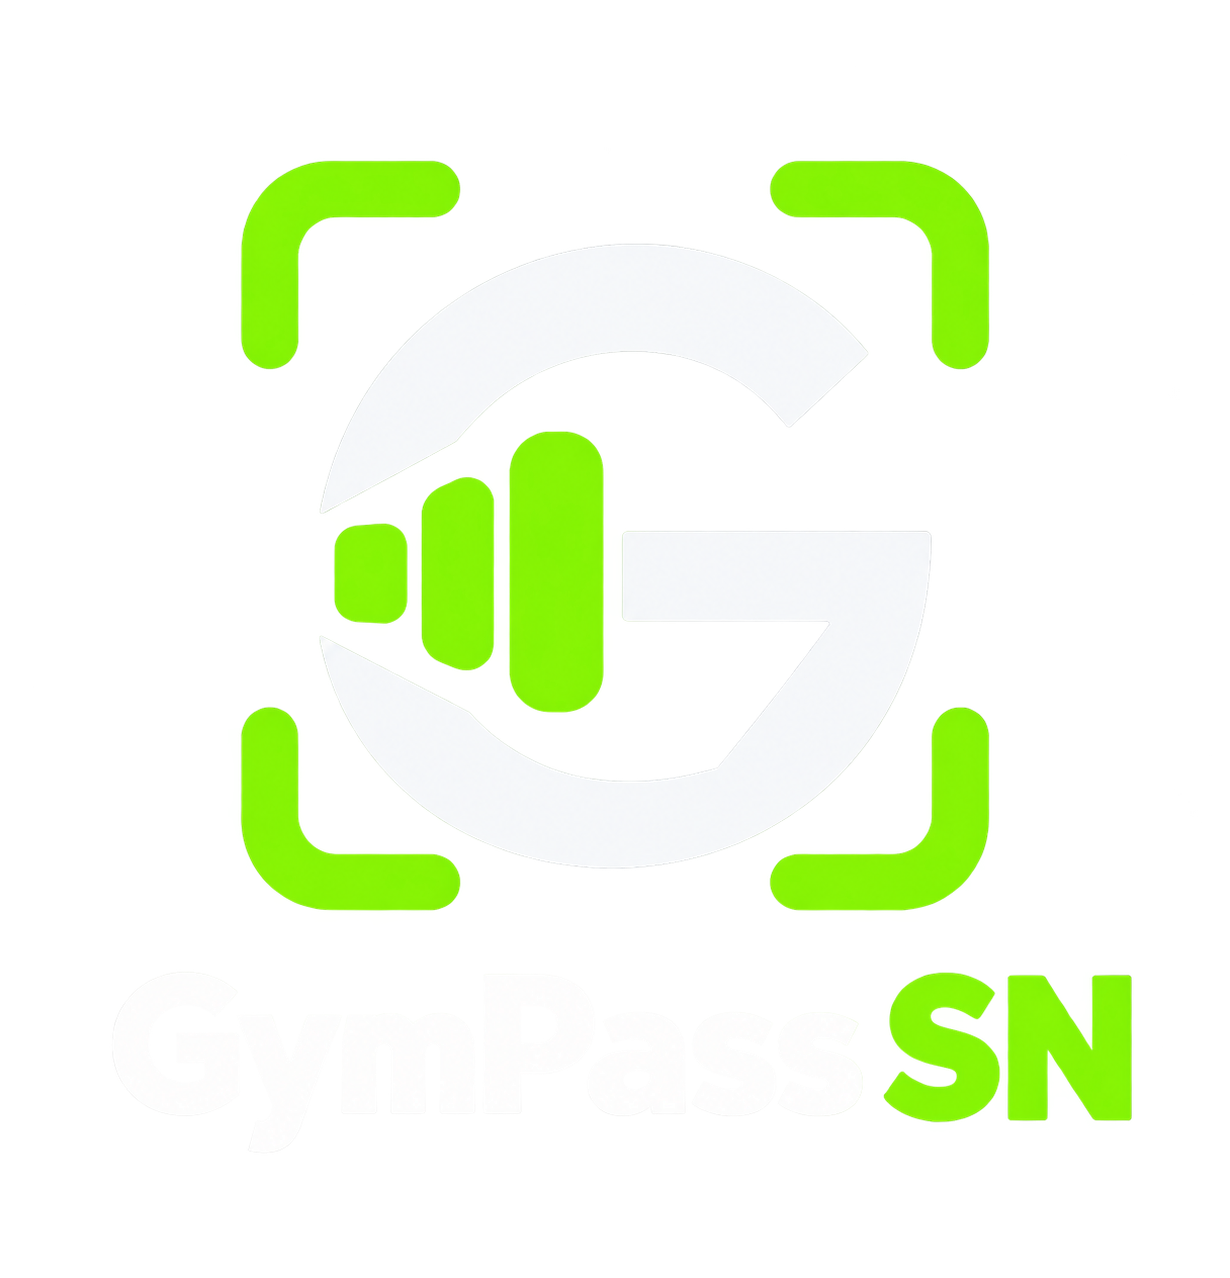
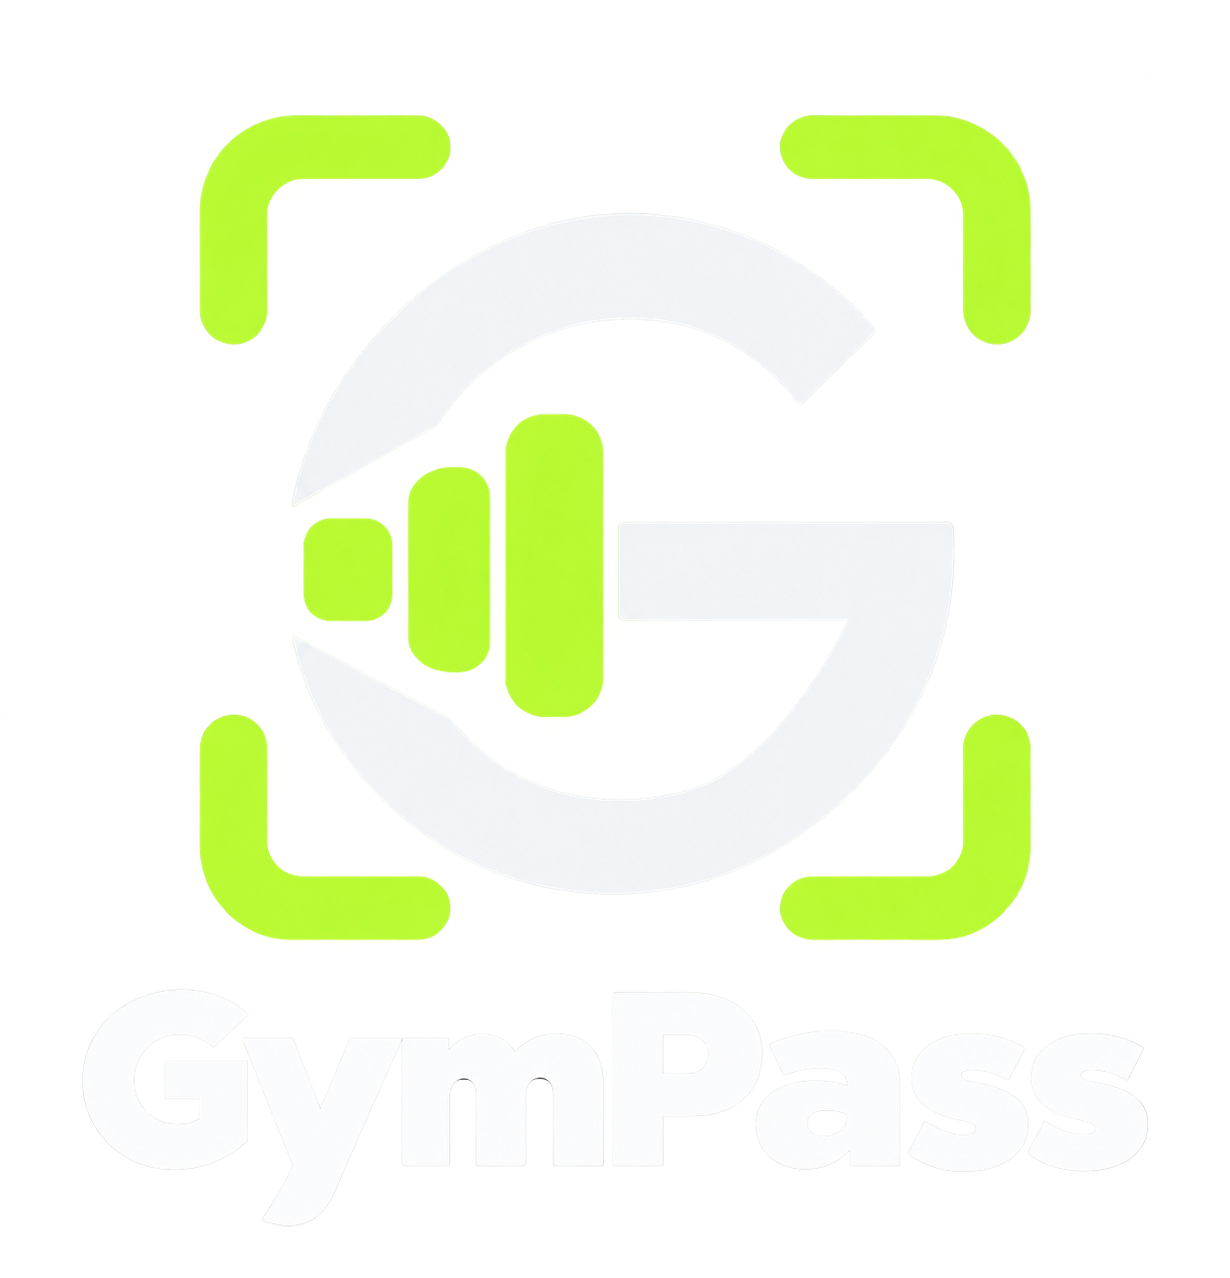
fix(branding): use GymPass on messages and receipts

diff --git a/src/scheduler/scheduler.service.ts b/src/scheduler/scheduler.service.ts
@@ -54,7 +54,7 @@ export class SchedulerService {
         `Bonjour *${m.prenom} ${m.nom}* 👋\n\n` +
         `Votre abonnement *GymPass* expire *demain*.\n\n` +
         `Pour continuer à profiter de la salle, pensez à renouveler dès aujourd'hui.\n\n` +
-        `_GymPass SN_`;
+        `_GymPass_`;
 
       await this.whatsapp.sendMessage(m.telephone, message);
 
@@ -109,7 +109,7 @@ export class SchedulerService {
         `Votre abonnement *GymPass* a expiré hier.\n\n` +
         `🔴 Votre accès à la salle est suspendu jusqu'au renouvellement.\n\n` +
         `Contactez la réception pour renouveler votre abonnement.\n\n` +
-        `_GymPass SN_`;
+        `_GymPass_`;
 
       await this.whatsapp.sendMessage(m.telephone, message);
 
@@ -128,10 +128,10 @@ export class SchedulerService {
   async sendWelcome(telephone: string, prenom: string, nom: string, numeroCarte: string) {
     const message =
       `Bienvenue *${prenom} ${nom}* ! 🎉\n\n` +
-      `Votre inscription à *GymPass SN* est confirmée.\n\n` +
+      `Votre inscription à *GymPass* est confirmée.\n\n` +
       `🪪 N° carte : *${numeroCarte}*\n\n` +
       `Présentez votre QR code à chaque entrée en salle.\n\n` +
-      `_GymPass SN_`;
+      `_GymPass_`;
     await this.whatsapp.sendMessage(telephone, message);
   }
 
@@ -152,7 +152,7 @@ export class SchedulerService {
       `Bonjour *${prenom} ${nom}*,\n\n` +
       `✅ Paiement enregistré : *${montant.toLocaleString('fr-FR')} FCFA* — ${formule}${expStr}\n\n` +
       `Merci de votre confiance !\n\n` +
-      `_GymPass SN_`;
+      `_GymPass_`;
     await this.whatsapp.sendMessage(telephone, message);
   }
 }

diff --git a/src/whatsapp/whatsapp.service.ts b/src/whatsapp/whatsapp.service.ts
@@ -127,11 +127,11 @@ export class WhatsappService {
   async sendCredentials(telephone: string, email: string, password: string, prenom: string): Promise<WhatsappDelivery> {
     const message =
       `Bonjour ${prenom} ! 👋\n\n` +
-      `Votre compte GymPass SN a été créé.\n\n` +
+      `Votre compte GymPass a été créé.\n\n` +
       `📧 Email : ${email}\n` +
       `🔑 Mot de passe temporaire : ${password}\n\n` +
       `Connectez-vous et changez votre mot de passe dès votre première connexion.\n\n` +
-      `GymPass SN`;
+      `GymPass`;
     return this.send(telephone, message);
   }
 
@@ -139,10 +139,10 @@ export class WhatsappService {
   async sendOtp(telephone: string, otp: string, prenom: string): Promise<WhatsappDelivery> {
     const message =
       `Bonjour ${prenom},\n\n` +
-      `Votre code de réinitialisation GymPass SN :\n\n` +
+      `Votre code de réinitialisation GymPass :\n\n` +
       `🔐 *${otp}*\n\n` +
       `Ce code expire dans 10 minutes. Ne le partagez pas.\n\n` +
-      `GymPass SN`;
+      `GymPass`;
     return this.send(telephone, message);
   }
 
@@ -151,7 +151,7 @@ export class WhatsappService {
     const message =
       `Voici la carte QR de *${memberNom}* :\n` +
       `${qrImageUrl}\n\n` +
-      `GymPass SN`;
+      `GymPass`;
     await this.send(telephone, message);
   }
 

diff --git a/src/members/member-card-delivery.service.ts b/src/members/member-card-delivery.service.ts
@@ -61,7 +61,7 @@ export class MemberCardDeliveryService {
     let delivery: WhatsappDelivery;
     try {
       delivery = await this.whatsapp.sendImage(member.telephone, image,
-        `Bonjour ${member.prenom} ${member.nom}, voici votre carte GymPass SN (${member.numeroCarte}). Conservez-la et présentez son QR code à l’accueil de votre salle. Vous pouvez également l’imprimer au format badge.`);
+        `Bonjour ${member.prenom} ${member.nom}, voici votre carte GymPass (${member.numeroCarte}). Conservez-la et présentez son QR code à l’accueil de votre salle. Vous pouvez également l’imprimer au format badge.`);
     } catch { delivery = { status: 'unconfirmed' }; }
     await this.prisma.member.updateMany({ where: { id, gymId, numeroCarte: member.numeroCarte, cardWhatsappStatus: 'pending', cardWhatsappAttemptedAt: attemptedAt }, data: { cardWhatsappStatus: delivery.status, cardWhatsappMessageId: delivery.messageId || null } });
     return this.result(delivery.status, delivery.messageId);

diff --git a/src/payments/payment-receipt.pdf.ts b/src/payments/payment-receipt.pdf.ts
@@ -67,7 +67,7 @@ export async function renderPaymentReceipt(r: PaymentReceiptData, photo?: Buffer
     text('TOTAL ENCAISSÉ', 40, 503, 145, 10, '#FFFFFF', true, 18);
     text(money(r.amount), 180, 498, 199, 19, accent, true, 32, 'right');
     text('Paiement enregistré • Conservez ce reçu.', 24, 556, 372, 9, muted, false, 16, 'center');
-    text('GymPass SN', 24, 575, 372, 8, muted, false, 12, 'center');
+    text('GymPass', 24, 575, 372, 8, muted, false, 12, 'center');
     doc.end();
   });
 }

diff --git a/src/main.ts b/src/main.ts
@@ -41,7 +41,7 @@ async function bootstrap() {
 
   // ── Swagger ───────────────────────────────────────────────────────────────
   const config = new DocumentBuilder()
-    .setTitle('GymPass SN API')
+    .setTitle('GymPass API')
     .setDescription('API de gestion de salle de sport — GymPass Sénégal')
     .setVersion('1.0')
     .addBearerAuth()
